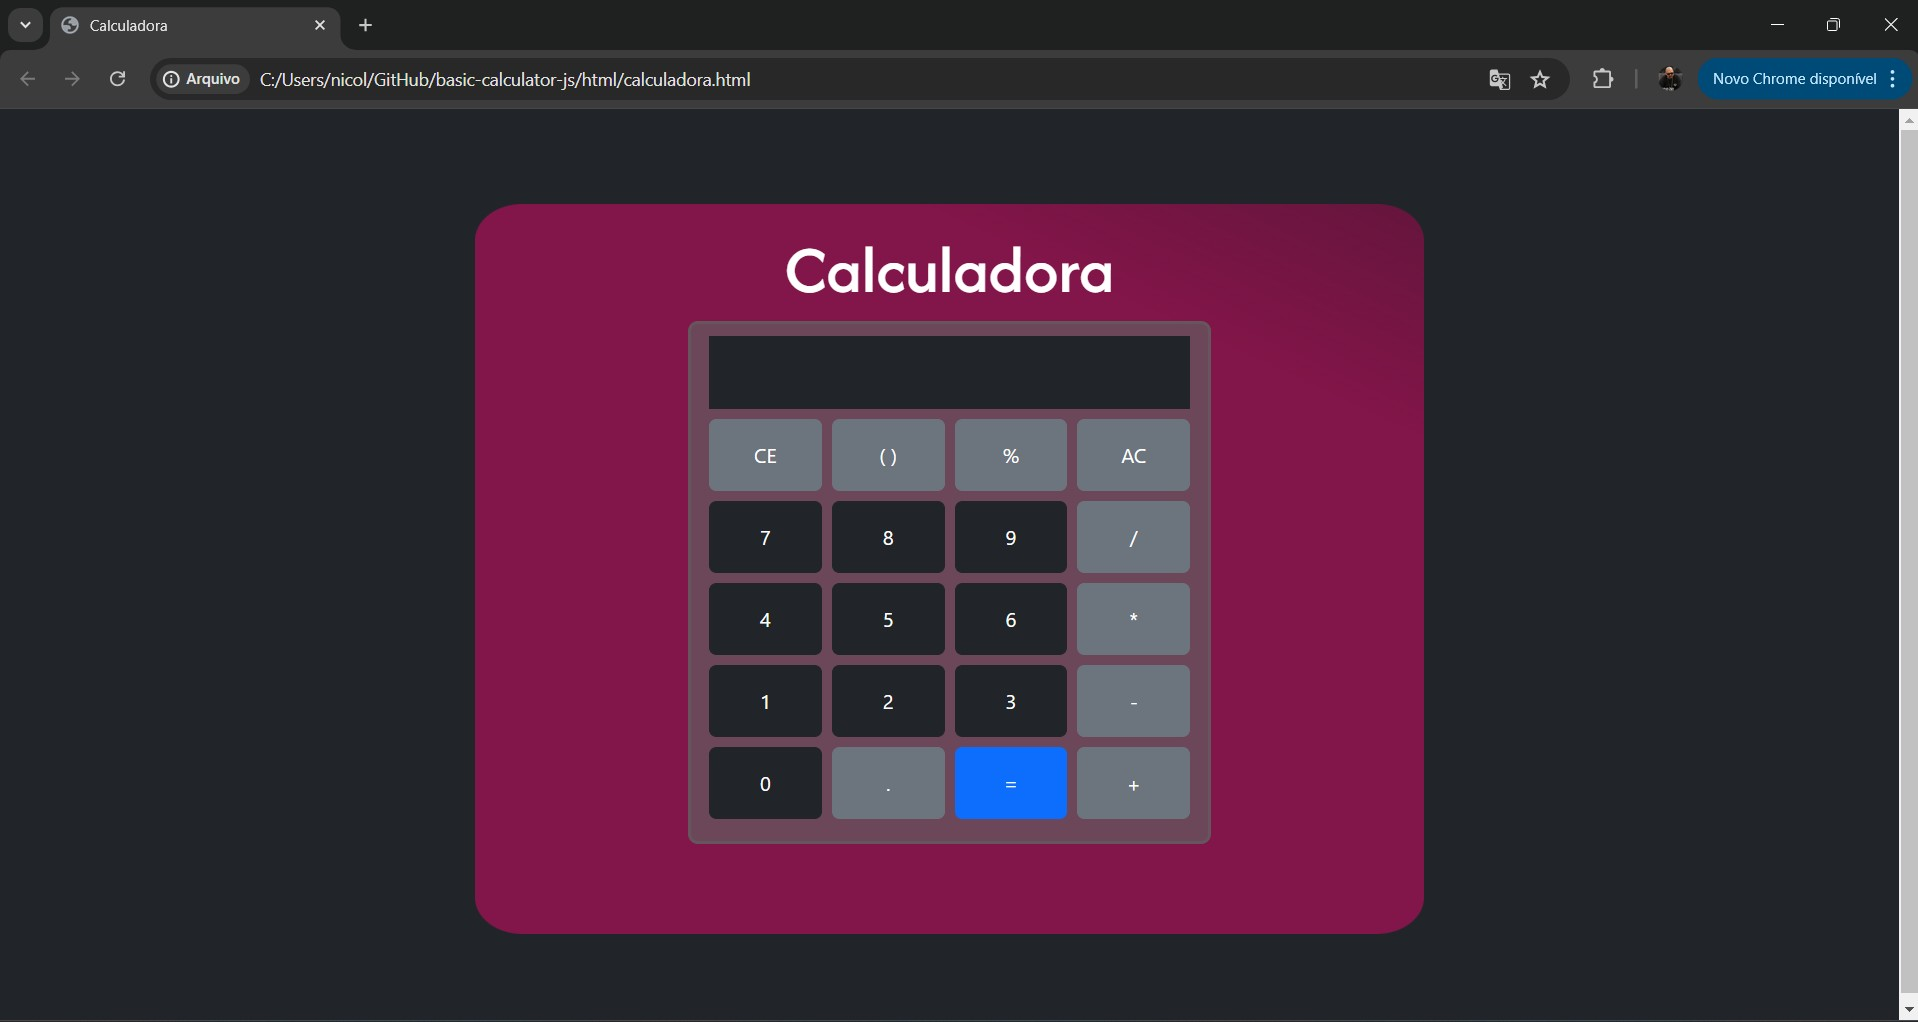
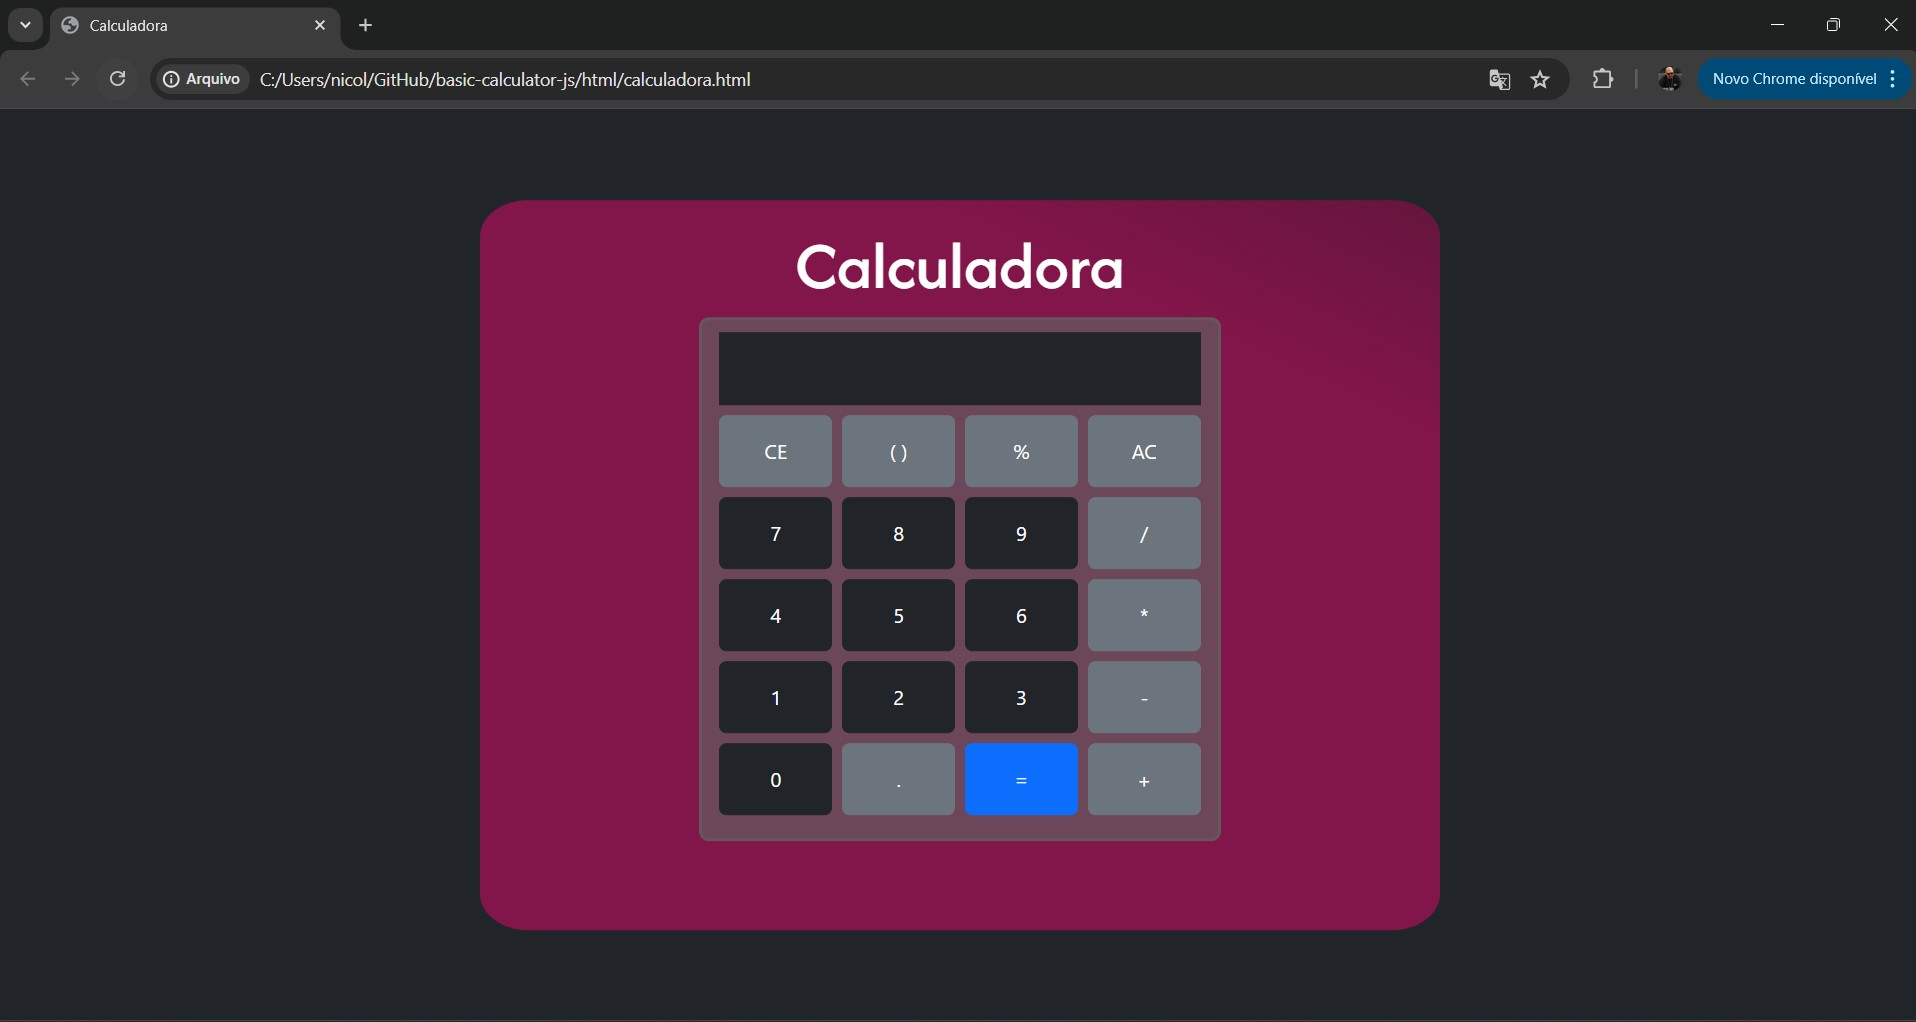
ajuste layout

diff --git a/css/calculadora.css b/css/calculadora.css
@@ -1,15 +1,19 @@
 body {
     background: #212529;
     color: #fff;
-    margin: 0 auto;
+    margin: 0;
+    height: 100vh;
 }
 
 .card-body {
+    position: absolute;
+    top: 50%;
+    left: 50%;
+    transform: translate(-50%, -50%);
     width: 50%;
     height: 80vh;
     background: linear-gradient(25deg, rgb(130 21 73) 80%, rgb(168 5 80 / 50%) 100%);
     overflow: hidden;
-    margin: 5% auto;
     border-radius: 5%;
 }
 
